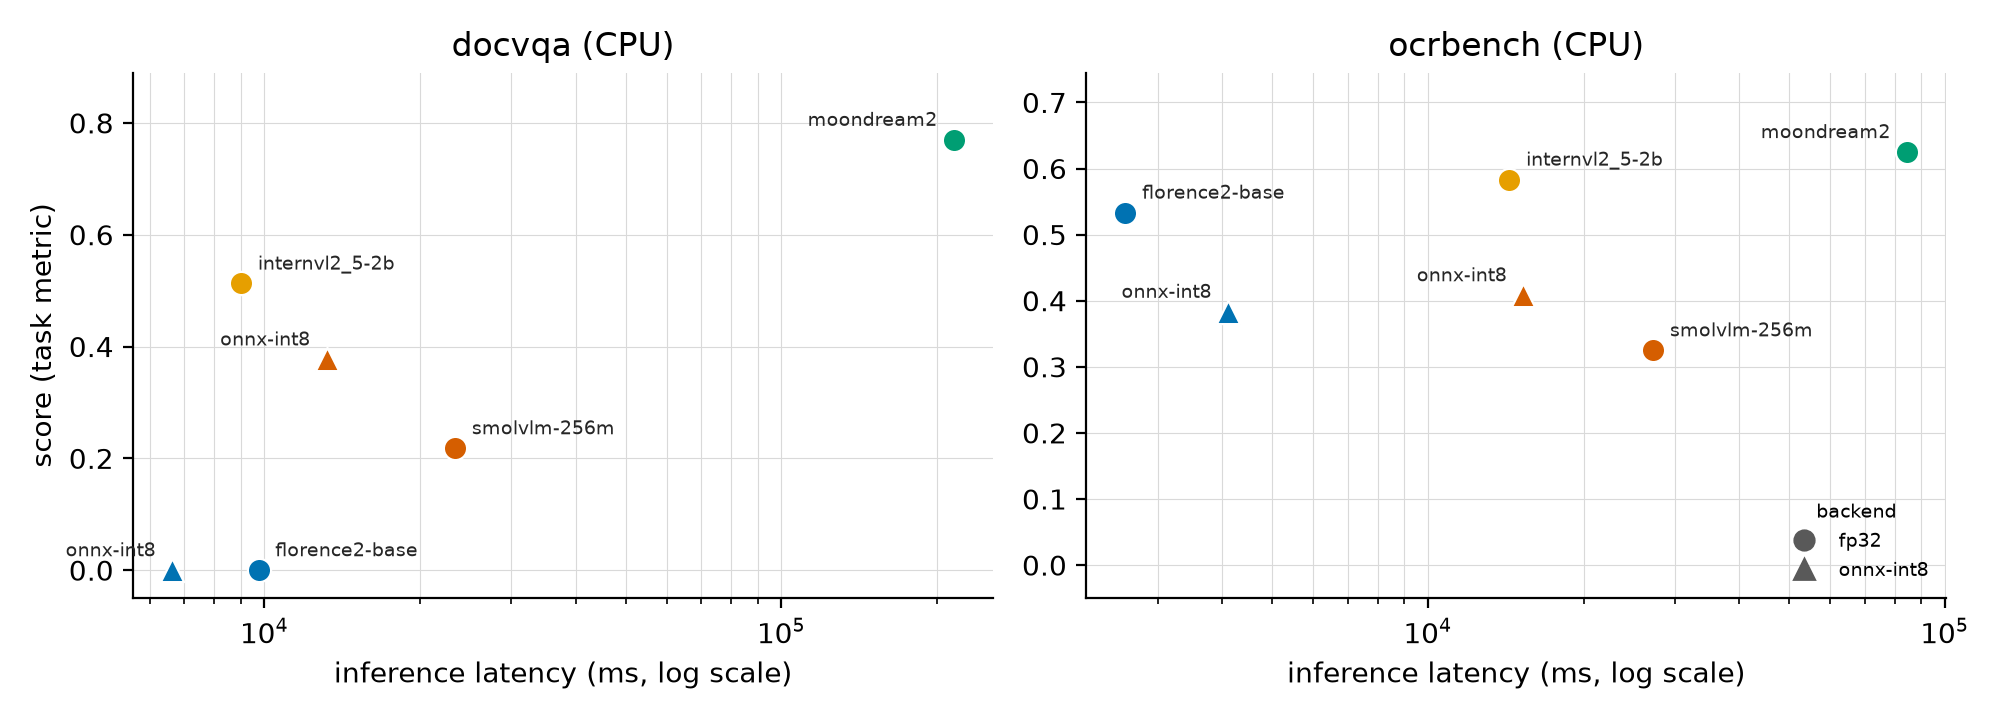
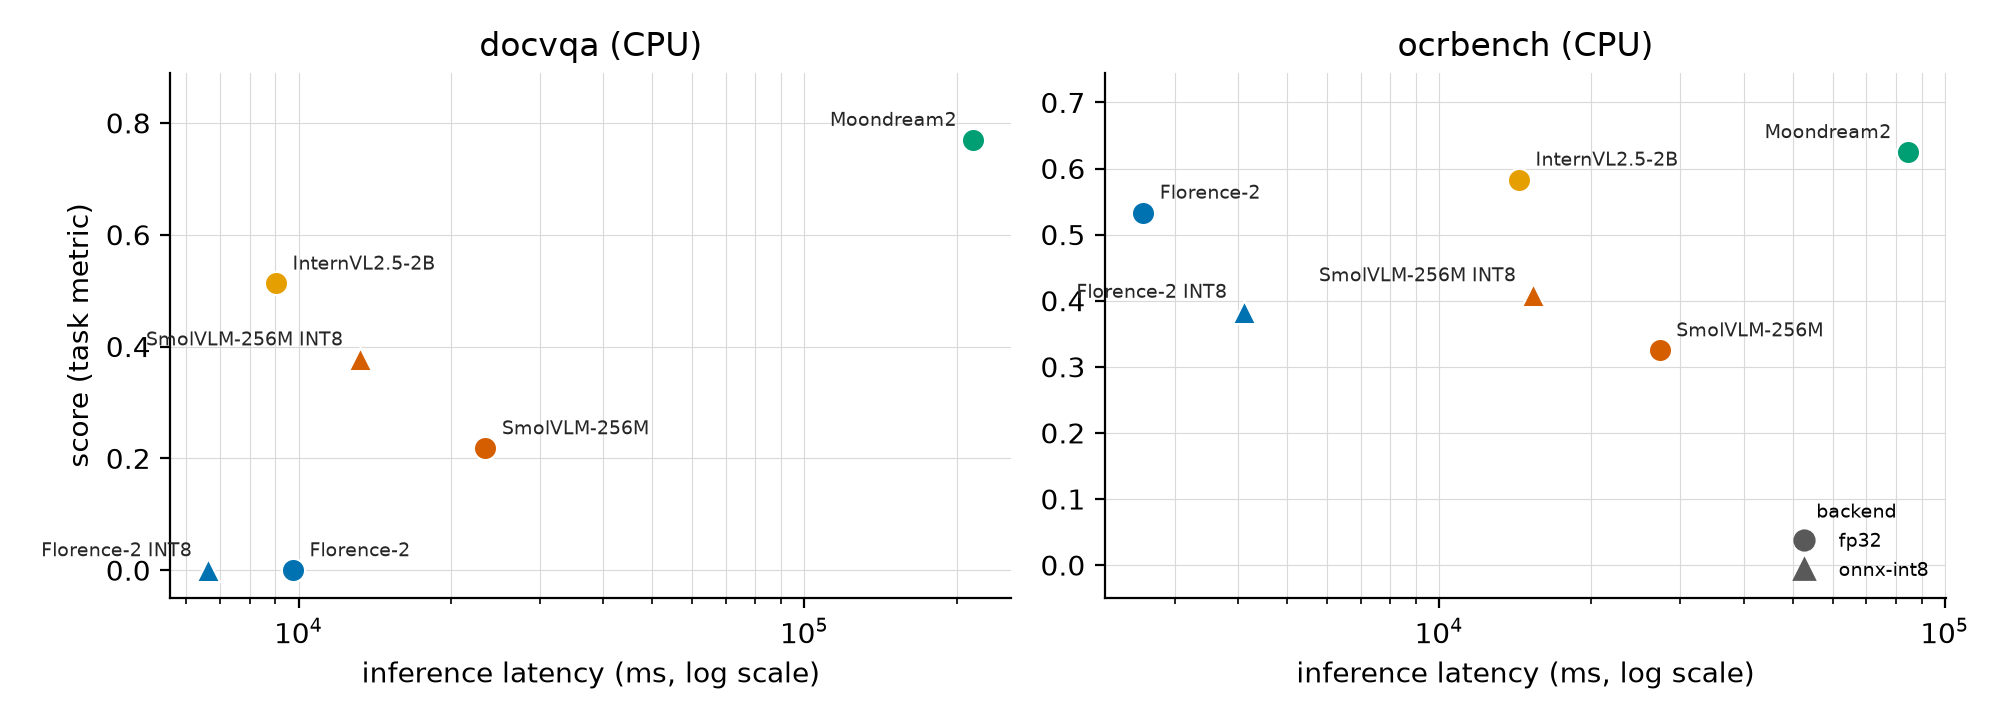
report: display names, CI column, INT8 labels, model exclusion (audit E6-E8, M1)
figures.py / make_figures.py:
- E8: map internal ids to paper display names (SmolVLM-256M, InternVL2.5-2B,
  Florence-2, YOLO11n, ...) in both tables and the trade-off figure.
- E6: add a bootstrap 95% CI column to every results table (from
  per_example_scores; '---' where absent, e.g. Moondream2).
- E7: label INT8 points in the figure with the model name (marker still encodes
  the backend), so identity never rests on colour alone.
- M1: add an --exclude option; regenerate the presence tables and figure
  without Florence-2, whose <OCR> adapter emits no yes/no answer.
- make_figures now accepts multiple --results (merged) and --figure name.

Regenerate paper_artifacts accordingly. 67 tests pass.

diff --git a/src/vlmbench/report/figures.py b/src/vlmbench/report/figures.py
@@ -25,29 +25,57 @@ def _tex(s: str) -> str:
     return str(s).replace("\\", r"\textbackslash{}").replace("_", r"\_").replace("&", r"\&")
 
 
-def latex_results_table(results: list[CellResult], task: str | None = None) -> str:
-    """Render a booktabs results table. If ``task`` is given, only that task's
-    cells are shown and the (now-constant) task column is omitted."""
-    rows = [r for r in results if task is None or r.task == task]
+# Paper display names for the internal model ids, so tables and figures show the
+# same names the prose uses (audit E8).
+_DISPLAY = {
+    "smolvlm-256m": "SmolVLM-256M",
+    "moondream2": "Moondream2",
+    "florence2-base": "Florence-2",
+    "internvl2_5-2b": "InternVL2.5-2B",
+    "yolo11n": "YOLO11n",
+    "rt-detr": "RT-DETR",
+    "yolo-world": "YOLO-World",
+}
+
+
+def _name(model: str) -> str:
+    return _DISPLAY.get(model, model)
+
+
+def latex_results_table(results: list[CellResult], task: str | None = None,
+                        exclude: tuple[str, ...] = ()) -> str:
+    """Render a booktabs results table with a bootstrap 95% CI column.
+
+    If ``task`` is given, only that task's cells are shown and the
+    (now-constant) task column is omitted. Models in ``exclude`` are dropped
+    (e.g. Florence-2 on the presence tasks, whose ``<OCR>`` adapter emits no
+    yes/no answer)."""
+    from .stats import bootstrap_ci
+    rows = [r for r in results
+            if (task is None or r.task == task) and r.model not in exclude]
     if task is None:
-        colspec, head = "lllrrrr", "model & backend & task & metric"
+        colspec = "lllrlrrr"
+        head = "model & backend & task & metric & 95\\% CI"
     else:
-        colspec, head = "llrrrr", "model & backend & metric"
+        colspec = "llrlrrr"
+        head = "model & backend & metric & 95\\% CI"
     header = (f"\\begin{{tabular}}{{{colspec}}}\n\\toprule\n"
               f"{head} & infer\\_ms & peak\\_mb & energy\\_j \\\\\n\\midrule\n")
     lines = []
     for r in rows:
         if r.status is CellStatus.OK:
             metric = _fmt(r.metric_value)
+            ci = bootstrap_ci(r.per_example_scores) if r.per_example_scores else None
+            ci_str = f"[{ci[0]:.3f}, {ci[1]:.3f}]" if ci else "---"
             infer = _fmt_int(r.infer_ms_mean)
             peak = _fmt_int(r.peak_rss_mb)
             energy = _fmt_int(r.energy_j)
         else:
-            metric = infer = peak = energy = f"\\text{{{r.status.value}}}"
-        cells = [_tex(r.model), _tex(r.backend)]
+            metric = ci_str = infer = peak = energy = f"\\text{{{r.status.value}}}"
+        cells = [_tex(_name(r.model)), _tex(r.backend)]
         if task is None:
             cells.append(_tex(r.task))
-        cells += [metric, infer, peak, energy]
+        cells += [metric, ci_str, infer, peak, energy]
         lines.append(" & ".join(cells) + " \\\\")
     body = "\n".join(lines)
     footer = "\n\\bottomrule\n\\end{tabular}"
@@ -56,8 +84,9 @@ def latex_results_table(results: list[CellResult], task: str | None = None) -> s
 
 # Okabe-Ito colourblind-safe qualitative palette (validated: adjacent CVD
 # deltaE >= 11). Identity is carried by colour (per model) AND by the direct
-# label, so no point relies on colour alone.
-_MODEL_COLORS = ("#0072B2", "#E69F00", "#009E73", "#D55E00", "#CC79A7", "#56B4E9")
+# model-name label on every point (fp32 and INT8 alike), so no point relies on
+# colour alone.
+_MODEL_COLORS = ("#0072B2", "#E69F00", "#009E73", "#D55E00", "#CC79A7", "#56B4E9", "#F0E442")
 _BACKEND_MARKERS = {"fp32": "o", "onnx-int8": "^"}
 
 
@@ -75,11 +104,13 @@ def _plot_tradeoff_ax(ax, rows, color_of) -> None:
                    color=color_of[r.model], edgecolors="white", linewidths=0.8,
                    zorder=3)
         if r.backend == "fp32":
-            label = r.model
+            label = _name(r.model)
             right_edge = r.infer_ms_mean > x_max / 3
             dx, ha = (-6, "right") if right_edge else (6, "left")
         else:
-            label, dx, ha = r.backend, -6, "right"
+            # Label INT8 points with the model name too (marker encodes the
+            # backend), so identity never rests on colour alone (audit E7).
+            label, dx, ha = f"{_name(r.model)} INT8", -6, "right"
         ax.annotate(label, (r.infer_ms_mean, r.metric_value),
                     textcoords="offset points", xytext=(dx, 5), ha=ha,
                     fontsize=7, color="0.15")
@@ -87,13 +118,15 @@ def _plot_tradeoff_ax(ax, rows, color_of) -> None:
     ax.set_ylim(-0.05, max((r.metric_value for r in rows), default=1.0) + 0.12)
 
 
-def save_tradeoff_plot(results: list[CellResult], path) -> Path:
+def save_tradeoff_plot(results: list[CellResult], path,
+                       exclude: tuple[str, ...] = ()) -> Path:
     from matplotlib.lines import Line2D
 
     path = Path(path)
     path.parent.mkdir(parents=True, exist_ok=True)
     ok = [r for r in results if r.status is CellStatus.OK
-          and r.infer_ms_mean is not None and r.metric_value is not None]
+          and r.infer_ms_mean is not None and r.metric_value is not None
+          and r.model not in exclude]
 
     # Stable model -> colour assignment, shared across task panels.
     models = sorted({r.model for r in ok})

diff --git a/paper_artifacts/results_table.tex b/paper_artifacts/results_table.tex
@@ -1,22 +1,22 @@
-\begin{tabular}{lllrrrr}
+\begin{tabular}{lllrlrrr}
 \toprule
-model & backend & task & metric & infer\_ms & peak\_mb & energy\_j \\
+model & backend & task & metric & 95\% CI & infer\_ms & peak\_mb & energy\_j \\
 \midrule
-smolvlm-256m & fp32 & docvqa & 0.218 & 23390 & 6472 & 314 \\
-smolvlm-256m & onnx-int8 & docvqa & 0.377 & 13203 & 10138 & 192 \\
-smolvlm-256m & fp32 & ocrbench & 0.325 & 27293 & 6072 & 398 \\
-smolvlm-256m & onnx-int8 & ocrbench & 0.408 & 15308 & 9119 & 229 \\
-moondream2 & fp32 & docvqa & 0.770 & 215599 & 9216 & 3132 \\
-moondream2 & onnx-int8 & docvqa & \text{unsupported} & \text{unsupported} & \text{unsupported} & \text{unsupported} \\
-moondream2 & fp32 & ocrbench & 0.625 & 84546 & 9306 & 1233 \\
-moondream2 & onnx-int8 & ocrbench & \text{unsupported} & \text{unsupported} & \text{unsupported} & \text{unsupported} \\
-florence2-base & fp32 & docvqa & 0.000 & 9744 & 6127 & 138 \\
-florence2-base & onnx-int8 & docvqa & 0.000 & 6635 & 6965 & 103 \\
-florence2-base & fp32 & ocrbench & 0.533 & 2599 & 6579 & 41 \\
-florence2-base & onnx-int8 & ocrbench & 0.383 & 4107 & 6580 & 59 \\
-internvl2\_5-2b & fp32 & docvqa & 0.513 & 9018 & 12137 & 136 \\
-internvl2\_5-2b & onnx-int8 & docvqa & \text{unsupported} & \text{unsupported} & \text{unsupported} & \text{unsupported} \\
-internvl2\_5-2b & fp32 & ocrbench & 0.583 & 14380 & 11081 & 206 \\
-internvl2\_5-2b & onnx-int8 & ocrbench & \text{unsupported} & \text{unsupported} & \text{unsupported} & \text{unsupported} \\
+SmolVLM-256M & fp32 & docvqa & 0.218 & [0.148, 0.291] & 23390 & 6472 & 314 \\
+SmolVLM-256M & onnx-int8 & docvqa & 0.377 & [0.295, 0.462] & 13203 & 10138 & 192 \\
+SmolVLM-256M & fp32 & ocrbench & 0.325 & [0.242, 0.408] & 27293 & 6072 & 398 \\
+SmolVLM-256M & onnx-int8 & ocrbench & 0.408 & [0.317, 0.500] & 15308 & 9119 & 229 \\
+Moondream2 & fp32 & docvqa & 0.770 & --- & 215599 & 9216 & 3132 \\
+Moondream2 & onnx-int8 & docvqa & \text{unsupported} & \text{unsupported} & \text{unsupported} & \text{unsupported} & \text{unsupported} \\
+Moondream2 & fp32 & ocrbench & 0.625 & --- & 84546 & 9306 & 1233 \\
+Moondream2 & onnx-int8 & ocrbench & \text{unsupported} & \text{unsupported} & \text{unsupported} & \text{unsupported} & \text{unsupported} \\
+Florence-2 & fp32 & docvqa & 0.000 & [0.000, 0.000] & 9744 & 6127 & 138 \\
+Florence-2 & onnx-int8 & docvqa & 0.000 & [0.000, 0.000] & 6635 & 6965 & 103 \\
+Florence-2 & fp32 & ocrbench & 0.533 & [0.442, 0.625] & 2599 & 6579 & 41 \\
+Florence-2 & onnx-int8 & ocrbench & 0.383 & [0.300, 0.467] & 4107 & 6580 & 59 \\
+InternVL2.5-2B & fp32 & docvqa & 0.513 & [0.429, 0.598] & 9018 & 12137 & 136 \\
+InternVL2.5-2B & onnx-int8 & docvqa & \text{unsupported} & \text{unsupported} & \text{unsupported} & \text{unsupported} & \text{unsupported} \\
+InternVL2.5-2B & fp32 & ocrbench & 0.583 & [0.500, 0.675] & 14380 & 11081 & 206 \\
+InternVL2.5-2B & onnx-int8 & ocrbench & \text{unsupported} & \text{unsupported} & \text{unsupported} & \text{unsupported} & \text{unsupported} \\
 \bottomrule
 \end{tabular}

diff --git a/scripts/make_figures.py b/scripts/make_figures.py
@@ -10,21 +10,29 @@ from vlmbench.report.records import JsonlStore
 
 def main() -> None:
     parser = argparse.ArgumentParser()
-    parser.add_argument("--results", required=True)
+    parser.add_argument("--results", required=True, nargs="+",
+                        help="one or more results.jsonl files (merged)")
     parser.add_argument("--out-dir", default="paper_artifacts")
+    parser.add_argument("--figure", default="tradeoff.png",
+                        help="filename for the trade-off figure")
+    parser.add_argument("--exclude", default="",
+                        help="comma-separated model ids to drop (e.g. Florence-2 "
+                             "on presence, whose <OCR> adapter emits no yes/no)")
     args = parser.parse_args()
-    results = JsonlStore(args.results).load()
+    results = [r for f in args.results for r in JsonlStore(f).load()]
+    exclude = tuple(m for m in args.exclude.split(",") if m)
     out = Path(args.out_dir)
     out.mkdir(parents=True, exist_ok=True)
-    save_tradeoff_plot(results, out / "tradeoff.png")
+    save_tradeoff_plot(results, out / args.figure, exclude=exclude)
     # Combined table (kept for reference) plus one per-task table, which the
     # paper prefers for readability (they mirror the two figure panels).
-    (out / "results_table.tex").write_text(latex_results_table(results))
+    (out / "results_table.tex").write_text(latex_results_table(results, exclude=exclude))
     tasks = sorted({r.task for r in results})
     for task in tasks:
         (out / f"results_table_{task}.tex").write_text(
-            latex_results_table(results, task=task))
-    print(f"wrote figures/tables to {out} (per-task tables: {tasks})")
+            latex_results_table(results, task=task, exclude=exclude))
+    print(f"wrote figures/tables to {out} (per-task tables: {tasks}; "
+          f"excluded: {exclude or 'none'})")
 
 
 if __name__ == "__main__":

diff --git a/tests/report/test_figures.py b/tests/report/test_figures.py
@@ -23,7 +23,8 @@ def test_latex_table_marks_failed_and_na():
     table = latex_results_table([_ok("a", 100.0, 0.5), _failed("b")])
     assert "tabular" in table
     assert "failed" in table
-    assert "lllrrrr" in table       # combined table keeps the task column
+    assert "lllrlrrr" in table      # combined table: task column + CI column
+    assert "95\\% CI" in table
     assert "energy\\_j" in table
 
 
@@ -32,10 +33,21 @@ def test_per_task_table_drops_task_column_and_filters():
     b = _ok("b", 200.0, 0.6)
     b.task = "ocrbench"
     table = latex_results_table([a, b], task="docvqa")
-    assert "llrrrr" in table        # one fewer column (no task)
+    assert "llrlrrr" in table       # no task column, plus the CI column
     assert "docvqa" not in table    # constant task column omitted
     assert "\na & fp32 & 0.500" in table  # model a present, no task cell
     assert " b " not in table       # ocrbench cell filtered out
+
+
+def test_table_excludes_models_and_uses_display_names():
+    florence = _ok("florence2-base", 300.0, 0.0)
+    florence.task = "presence-coco"
+    keep = _ok("internvl2_5-2b", 100.0, 0.9)
+    keep.task = "presence-coco"
+    table = latex_results_table([florence, keep], task="presence-coco",
+                                exclude=("florence2-base",))
+    assert "Florence-2" not in table and "florence" not in table  # excluded
+    assert "InternVL2.5-2B" in table                              # display name
 
 
 def test_tradeoff_plot_written(tmp_path):

diff --git a/paper_artifacts/results_table_docvqa.tex b/paper_artifacts/results_table_docvqa.tex
@@ -1,14 +1,14 @@
-\begin{tabular}{llrrrr}
+\begin{tabular}{llrlrrr}
 \toprule
-model & backend & metric & infer\_ms & peak\_mb & energy\_j \\
+model & backend & metric & 95\% CI & infer\_ms & peak\_mb & energy\_j \\
 \midrule
-smolvlm-256m & fp32 & 0.218 & 23390 & 6472 & 314 \\
-smolvlm-256m & onnx-int8 & 0.377 & 13203 & 10138 & 192 \\
-moondream2 & fp32 & 0.770 & 215599 & 9216 & 3132 \\
-moondream2 & onnx-int8 & \text{unsupported} & \text{unsupported} & \text{unsupported} & \text{unsupported} \\
-florence2-base & fp32 & 0.000 & 9744 & 6127 & 138 \\
-florence2-base & onnx-int8 & 0.000 & 6635 & 6965 & 103 \\
-internvl2\_5-2b & fp32 & 0.513 & 9018 & 12137 & 136 \\
-internvl2\_5-2b & onnx-int8 & \text{unsupported} & \text{unsupported} & \text{unsupported} & \text{unsupported} \\
+SmolVLM-256M & fp32 & 0.218 & [0.148, 0.291] & 23390 & 6472 & 314 \\
+SmolVLM-256M & onnx-int8 & 0.377 & [0.295, 0.462] & 13203 & 10138 & 192 \\
+Moondream2 & fp32 & 0.770 & --- & 215599 & 9216 & 3132 \\
+Moondream2 & onnx-int8 & \text{unsupported} & \text{unsupported} & \text{unsupported} & \text{unsupported} & \text{unsupported} \\
+Florence-2 & fp32 & 0.000 & [0.000, 0.000] & 9744 & 6127 & 138 \\
+Florence-2 & onnx-int8 & 0.000 & [0.000, 0.000] & 6635 & 6965 & 103 \\
+InternVL2.5-2B & fp32 & 0.513 & [0.429, 0.598] & 9018 & 12137 & 136 \\
+InternVL2.5-2B & onnx-int8 & \text{unsupported} & \text{unsupported} & \text{unsupported} & \text{unsupported} & \text{unsupported} \\
 \bottomrule
 \end{tabular}

diff --git a/paper_artifacts/results_table_ocrbench.tex b/paper_artifacts/results_table_ocrbench.tex
@@ -1,14 +1,14 @@
-\begin{tabular}{llrrrr}
+\begin{tabular}{llrlrrr}
 \toprule
-model & backend & metric & infer\_ms & peak\_mb & energy\_j \\
+model & backend & metric & 95\% CI & infer\_ms & peak\_mb & energy\_j \\
 \midrule
-smolvlm-256m & fp32 & 0.325 & 27293 & 6072 & 398 \\
-smolvlm-256m & onnx-int8 & 0.408 & 15308 & 9119 & 229 \\
-moondream2 & fp32 & 0.625 & 84546 & 9306 & 1233 \\
-moondream2 & onnx-int8 & \text{unsupported} & \text{unsupported} & \text{unsupported} & \text{unsupported} \\
-florence2-base & fp32 & 0.533 & 2599 & 6579 & 41 \\
-florence2-base & onnx-int8 & 0.383 & 4107 & 6580 & 59 \\
-internvl2\_5-2b & fp32 & 0.583 & 14380 & 11081 & 206 \\
-internvl2\_5-2b & onnx-int8 & \text{unsupported} & \text{unsupported} & \text{unsupported} & \text{unsupported} \\
+SmolVLM-256M & fp32 & 0.325 & [0.242, 0.408] & 27293 & 6072 & 398 \\
+SmolVLM-256M & onnx-int8 & 0.408 & [0.317, 0.500] & 15308 & 9119 & 229 \\
+Moondream2 & fp32 & 0.625 & --- & 84546 & 9306 & 1233 \\
+Moondream2 & onnx-int8 & \text{unsupported} & \text{unsupported} & \text{unsupported} & \text{unsupported} & \text{unsupported} \\
+Florence-2 & fp32 & 0.533 & [0.442, 0.625] & 2599 & 6579 & 41 \\
+Florence-2 & onnx-int8 & 0.383 & [0.300, 0.467] & 4107 & 6580 & 59 \\
+InternVL2.5-2B & fp32 & 0.583 & [0.500, 0.675] & 14380 & 11081 & 206 \\
+InternVL2.5-2B & onnx-int8 & \text{unsupported} & \text{unsupported} & \text{unsupported} & \text{unsupported} & \text{unsupported} \\
 \bottomrule
 \end{tabular}

diff --git a/paper_artifacts/results_table_presence-coco.tex b/paper_artifacts/results_table_presence-coco.tex
@@ -1,13 +1,12 @@
-\begin{tabular}{llrrrr}
+\begin{tabular}{llrlrrr}
 \toprule
-model & backend & metric & infer\_ms & peak\_mb & energy\_j \\
+model & backend & metric & 95\% CI & infer\_ms & peak\_mb & energy\_j \\
 \midrule
-yolo11n & fp32 & 0.858 & 50 & 4136 & 1 \\
-rt-detr & fp32 & 0.933 & 567 & 4147 & 11 \\
-yolo-world & fp32 & 0.875 & 176 & 4283 & 3 \\
-smolvlm-256m & fp32 & 0.792 & 21141 & 6241 & 324 \\
-florence2-base & fp32 & 0.000 & 2910 & 5019 & 42 \\
-internvl2\_5-2b & fp32 & 0.900 & 10032 & 11931 & 146 \\
-moondream2 & fp32 & 0.950 & 232138 & 5855 & 3370 \\
+YOLO11n & fp32 & 0.858 & [0.792, 0.917] & 50 & 4136 & 1 \\
+RT-DETR & fp32 & 0.933 & [0.883, 0.975] & 567 & 4147 & 11 \\
+YOLO-World & fp32 & 0.875 & [0.817, 0.933] & 176 & 4283 & 3 \\
+SmolVLM-256M & fp32 & 0.792 & [0.717, 0.858] & 21141 & 6241 & 324 \\
+InternVL2.5-2B & fp32 & 0.900 & [0.842, 0.950] & 10032 & 11931 & 146 \\
+Moondream2 & fp32 & 0.950 & [0.908, 0.983] & 232138 & 5855 & 3370 \\
 \bottomrule
 \end{tabular}

diff --git a/paper_artifacts/results_table_presence-openvocab.tex b/paper_artifacts/results_table_presence-openvocab.tex
@@ -1,13 +1,12 @@
-\begin{tabular}{llrrrr}
+\begin{tabular}{llrlrrr}
 \toprule
-model & backend & metric & infer\_ms & peak\_mb & energy\_j \\
+model & backend & metric & 95\% CI & infer\_ms & peak\_mb & energy\_j \\
 \midrule
-yolo11n & fp32 & 0.450 & 0 & 7568 & 0 \\
-rt-detr & fp32 & 0.450 & 0 & 7570 & 0 \\
-yolo-world & fp32 & 0.625 & 234 & 7735 & 5 \\
-smolvlm-256m & fp32 & 0.758 & 26418 & 9405 & 395 \\
-florence2-base & fp32 & 0.000 & 2758 & 7770 & 40 \\
-internvl2\_5-2b & fp32 & 0.892 & 9664 & 11019 & 150 \\
-moondream2 & fp32 & 0.867 & 239610 & 6060 & 3581 \\
+YOLO11n & fp32 & 0.450 & [0.358, 0.542] & 0 & 7568 & 0 \\
+RT-DETR & fp32 & 0.450 & [0.358, 0.542] & 0 & 7570 & 0 \\
+YOLO-World & fp32 & 0.625 & [0.542, 0.708] & 234 & 7735 & 5 \\
+SmolVLM-256M & fp32 & 0.758 & [0.683, 0.833] & 26418 & 9405 & 395 \\
+InternVL2.5-2B & fp32 & 0.892 & [0.833, 0.942] & 9664 & 11019 & 150 \\
+Moondream2 & fp32 & 0.867 & [0.800, 0.925] & 239610 & 6060 & 3581 \\
 \bottomrule
 \end{tabular}
